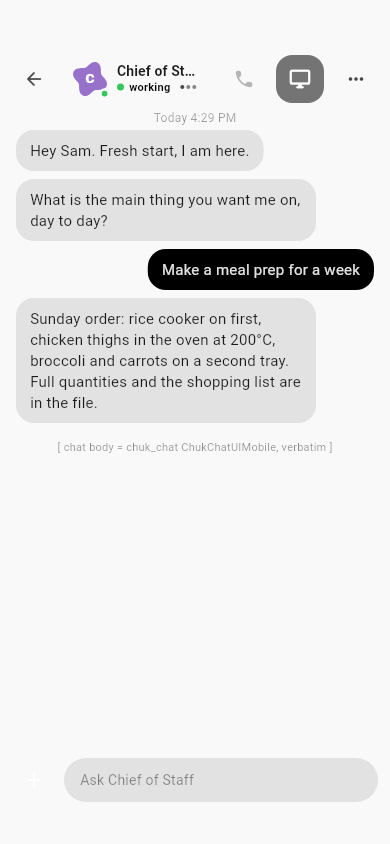
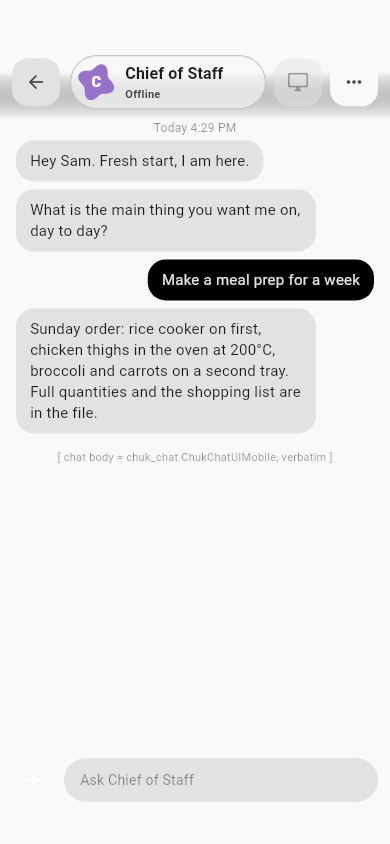
chore(app): roster view, settings and bubble follow the design; chat-ui import notes
The roster view lost the block the mobile list replaced, the settings rows
and the bubble read the shared numbers, and the import script and its
manifest record what was taken from chuk chat. Android manifest and gradle
properties carry the emulator build. Preview screenshots regenerated.

Changed region(s): [[0.0, 0.0616, 1.0, 0.4929], [0.1538, 0.5237, 0.8615, 0.5545]]

diff --git a/lib/widgets/agent_roster_view.dart b/lib/widgets/agent_roster_view.dart
@@ -56,8 +56,13 @@ import 'package:cowork/ui/expressive/agent_face.dart';
 import 'package:cowork/services/profile_service.dart';
 import 'package:cowork/services/supabase_service.dart';
 import 'package:cowork/widgets/agent_avatar.dart';
+import 'package:cowork/widgets/coworker_name_dialog.dart';
 import 'package:cowork/widgets/credit_display.dart';
 import 'package:cowork/widgets/sidebar/sidebar_chrome.dart';
+
+// The name dialog moved to its own file when it was rebuilt in the app's
+// language; it is exported here so every caller keeps one import.
+export 'package:cowork/widgets/coworker_name_dialog.dart';
 
 /// The brand row's sizing knob.
 ///
@@ -854,83 +859,4 @@ String lastActivityLabel(DateTime? when, {required DateTime now}) {
   if (delta.inMinutes < 60) return '${delta.inMinutes}m ago';
   if (delta.inHours < 24) return '${delta.inHours}h ago';
   return '${delta.inDays}d ago';
-}
-
-/// chuk's rename dialog (`sidebar_desktop.dart` `_renameChatDialog`), shared
-/// by Rename and New coworker so both inputs are the same chuk component:
-/// an `AlertDialog`, one autofocused `TextField` with label and hint, Cancel
-/// and a submit button. Returns the trimmed text, or null on Cancel.
-///
-/// The controller belongs to the dialog widget, not to the caller: chuk
-/// disposes it right after `showDialog` returns, which trips "used after
-/// dispose" while the route is still animating out under a widget test.
-Future<String?> showCoworkerNameDialog(
-  BuildContext context, {
-  required String title,
-  required String submitLabel,
-  String initialName = '',
-}) => showDialog<String>(
-  context: context,
-  builder: (_) => _CoworkerNameDialog(
-    title: title,
-    submitLabel: submitLabel,
-    initialName: initialName,
-  ),
-);
-
-class _CoworkerNameDialog extends StatefulWidget {
-  const _CoworkerNameDialog({
-    required this.title,
-    required this.submitLabel,
-    required this.initialName,
-  });
-
-  final String title;
-  final String submitLabel;
-  final String initialName;
-
-  @override
-  State<_CoworkerNameDialog> createState() => _CoworkerNameDialogState();
-}
-
-class _CoworkerNameDialogState extends State<_CoworkerNameDialog> {
-  late final TextEditingController _controller = TextEditingController(
-    text: widget.initialName,
-  );
-
-  @override
-  void dispose() {
-    _controller.dispose();
-    super.dispose();
-  }
-
-  @override
-  Widget build(BuildContext context) {
-    return AlertDialog(
-      title: Text(widget.title),
-      content: TextField(
-        controller: _controller,
-        autofocus: true,
-        decoration: const InputDecoration(
-          labelText: 'Agent name',
-          hintText: 'Enter a name',
-        ),
-        onSubmitted: (value) {
-          Navigator.of(context).pop(value.trim());
-        },
-      ),
-      actions: [
-        TextButton(
-          onPressed: () => Navigator.of(context).pop(),
-          child: const Text('Cancel'),
-        ),
-        TextButton(
-          onPressed: () {
-            Navigator.of(context).pop(_controller.text.trim());
-          },
-          child: Text(widget.submitLabel),
-        ),
-      ],
-    );
-  }
 }

diff --git a/test/widgets/agent_roster_view_test.dart b/test/widgets/agent_roster_view_test.dart
@@ -12,6 +12,7 @@ import 'package:cowork/services/cowork/cowork_relay_client.dart'
 import 'package:cowork/services/cowork/schedule_spec.dart';
 import 'package:cowork/widgets/agent_avatar.dart';
 import 'package:cowork/widgets/agent_roster_view.dart';
+import 'package:cowork/ui/expressive/motion.dart';
 import 'package:cowork/widgets/sidebar/sidebar_chrome.dart';
 
 void main() {
@@ -348,19 +349,19 @@ void main() {
       await tester.tap(find.text('Rename'));
       await tester.pumpAndSettle();
 
-      // chuk's `_renameChatDialog` shape: AlertDialog, one TextField
-      // pre-filled with the current name, Cancel + Rename.
-      expect(find.byType(AlertDialog), findsOneWidget);
+      // The app's own name dialog: one filled TextField pre-filled with the
+      // current name, a quiet Cancel and a filled Rename.
+      expect(find.byType(CoworkerNameDialog), findsOneWidget);
       final field = find.descendant(
-        of: find.byType(AlertDialog),
+        of: find.byType(CoworkerNameDialog),
         matching: find.byType(TextField),
       );
       expect(tester.widget<TextField>(field).controller!.text, host.name);
       await tester.enterText(field, '  Laptop Bot  ');
-      await tester.tap(find.widgetWithText(TextButton, 'Rename'));
+      await tester.tap(find.widgetWithText(ExpressiveButton, 'Rename'));
       await tester.pumpAndSettle();
 
-      expect(find.byType(AlertDialog), findsNothing);
+      expect(find.byType(CoworkerNameDialog), findsNothing);
       expect(renamed, [(host.id, 'Laptop Bot')]);
       // The view reports; the shell persists. The source is untouched here.
       expect(source.byId(host.id)!.name, host.name);
@@ -400,13 +401,13 @@ void main() {
       }
 
       final field = find.descendant(
-        of: find.byType(AlertDialog),
+        of: find.byType(CoworkerNameDialog),
         matching: find.byType(TextField),
       );
 
       // Unchanged: submit with the same name.
       await openDialog();
-      await tester.tap(find.widgetWithText(TextButton, 'Rename'));
+      await tester.tap(find.widgetWithText(ExpressiveButton, 'Rename'));
       await tester.pumpAndSettle();
       // Empty.
       await openDialog();
@@ -416,11 +417,11 @@ void main() {
       // Cancel.
       await openDialog();
       await tester.enterText(field, 'Other');
-      await tester.tap(find.widgetWithText(TextButton, 'Cancel'));
+      await tester.tap(find.widgetWithText(ExpressiveButton, 'Cancel'));
       await tester.pumpAndSettle();
 
       expect(renamed, isEmpty);
-      expect(find.byType(AlertDialog), findsNothing);
+      expect(find.byType(CoworkerNameDialog), findsNothing);
     });
 
     testWidgets('without onRenameAgent the menu has no Rename item', (

diff --git a/lib/widgets/message_bubble.dart b/lib/widgets/message_bubble.dart
@@ -314,8 +314,11 @@ class MessageBubble extends StatefulWidget {
 class _MessageBubbleState extends State<MessageBubble> {
   /// Files this answer produced. They are pulled out of the bubble while the
   /// body is built and drawn under it as messages of their own, so a document
-  /// arrives the way a messenger delivers one.
-  final List<Widget> _artifactMessages = <Widget>[];
+  /// arrives the way a messenger delivers one. Payloads, not widgets: the
+  /// block only learns its corner radii once the whole stack is known, and
+  /// that is after the body is built.
+  final List<SandboxArtifactPayload> _artifactPayloads =
+      <SandboxArtifactPayload>[];
 
   bool _complexBubbleLogged = false;
   bool _showUserActions = false;

diff --git a/lib/widgets/expressive_settings.dart b/lib/widgets/expressive_settings.dart
@@ -410,9 +410,10 @@ class ExpressiveIconTile extends StatelessWidget {
       child: AppIcon(
         icon,
         // The icon's own box, before [HugeIcon]'s optical inset trims it to
-        // about 0.86 of that. 0.6 of the tile leaves the drawing the same
-        // weight a 24 px Material glyph had in a 40 px tile.
-        size: size * 0.6,
+        // about 0.86 of that. That lands a 42 px tile on a 25 px drawing —
+        // the 24-in-40 proportion a filled tile wants. The old 0.5 was set
+        // when the icon ignored it and filled the whole tile anyway.
+        size: size * 0.7,
         color: tone == null ? cs.onPrimaryContainer : cs.onColorFor(background),
       ),
     );

diff --git a/docs/CHAT_UI_IMPORT.md b/docs/CHAT_UI_IMPORT.md
@@ -125,8 +125,37 @@ emptied.
 
 ## Allowed divergences
 
-**Widget layer: none.** Every file under `platform_specific/chat/`, `widgets/`,
-`models/` and `utils/` is byte-identical to upstream modulo the package prefix.
+**Widget layer: NO LONGER NONE. Read this before you run the importer.**
+
+This section used to say every file under `platform_specific/chat/`,
+`widgets/`, `models/` and `utils/` was byte-identical to upstream modulo the
+package prefix. That stopped being true. 41 imported files have diverged, and
+eight of them are rendering widgets carrying roughly two thousand lines of
+CoWork work — none of it upstreamed, all of it visible to the user:
+
+* `widgets/markdown_message.dart` — inline code keeps its monospace and its chip
+  inside headings and quotes (upstream loses both, because a theme style with
+  `inherit: false` swallows the merge); heading sizes are monotonic and follow
+  the chat font size (upstream renders `####` SMALLER than `#####`); list
+  markers take the bubble's colour; links are underlined in the accent and keep
+  the surrounding size and weight.
+* `widgets/chuk_table.dart` — a link in a cell is underlined and opens; a table
+  wider than 560 px stacks into one card per row with every field labelled.
+  Upstream has neither, and the coworker puts its sources in tables.
+* `widgets/message_bubble/*` — the bubble is decided by its rendered body, so a
+  turn that is only internal work does not leave a blank bar; `rich_blocks.dart`
+  fixes a trailing-comma parser that upstream leaves writing a literal `$1` into
+  the JSON and rendering an error card.
+* `widgets/chart_widget.dart` — a tolerant parser with a provenance footer;
+  upstream throws the whole message away on a colour it cannot read.
+* Touch targets raised to 48 dp across the imported widgets, and the whole
+  `ui/expressive/` motion vocabulary, which upstream does not have at all.
+
+**Consequence:** `scripts/import_chat_ui.sh` would overwrite all of it in
+silence. Before any re-sync, diff the manifest's widget entries against
+upstream, decide file by file, and move anything worth keeping out of the
+manifest first. Bead cowork-r6jy tracks pruning the manifest so the importer is
+safe to run again.
 
 Service layer, deliberate and recorded:
 
@@ -135,7 +164,10 @@ Service layer, deliberate and recorded:
    imported; no imported file reads `session.enforcer`.
 2. `platform_config.dart` carries the appended CoWork-only flag block described
    above.
-3. `services/chat_storage_service.dart` (bead cowork-sha): `saveChat` and
+3. `services/streaming_manager_io.dart` — carries a `FinalContentEvent` branch
+   upstream does not have. An earlier version of this document claimed the file
+   was untouched; it is not.
+4. `services/chat_storage_service.dart` (bead cowork-sha): `saveChat` and
    `updateChat` delegate to `CoworkChatStore.replaceThread` (memory → SQLite →
    encrypted upsert on `cowork_chats`, best-effort) instead of upstream's
    INSERT/UPDATE, which refuse to run without a signed-in user and an unlocked
